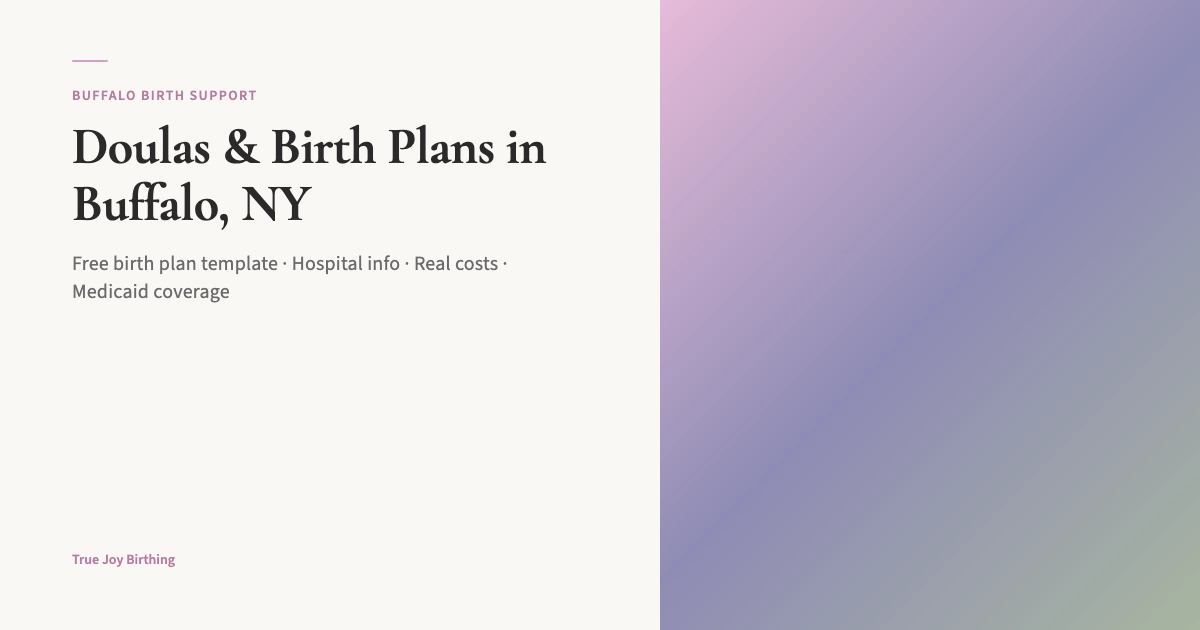
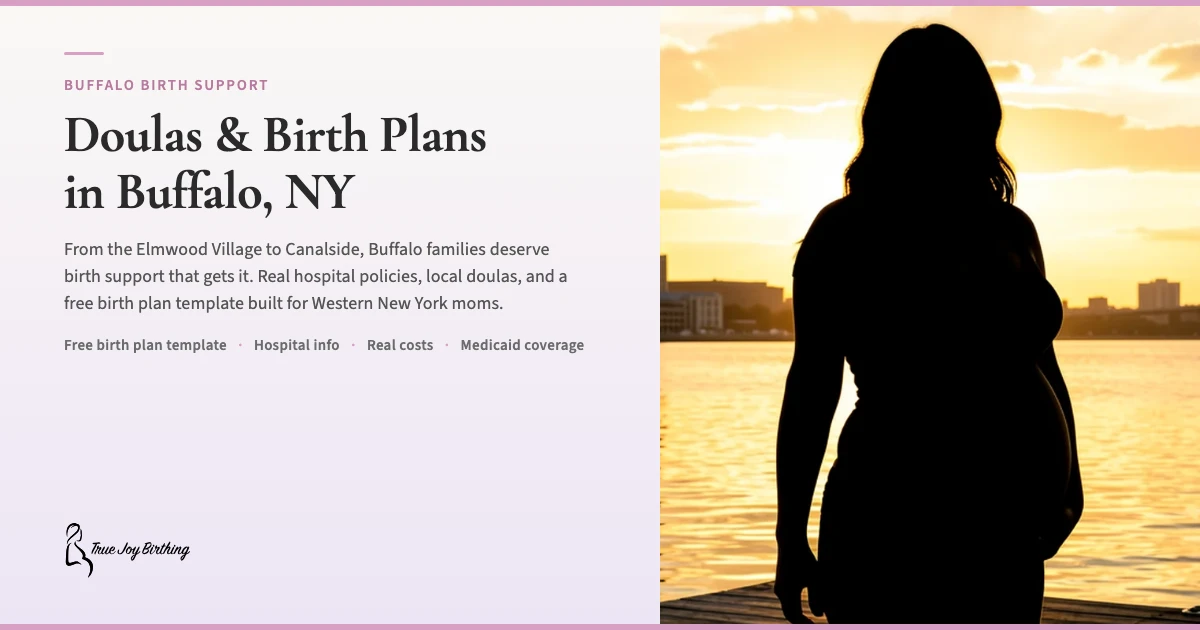
buffalo-ny: full rebuild - 5 real doulas, 3 hospitals, hero/OG/support images, birthStats, nicuLevel fix

diff --git a/src/data/cities.ts b/src/data/cities.ts
@@ -1147,7 +1147,7 @@ export const cities: Record<string, CityData> = {
     ],
     birthCenterDetails: [
       { name: "San Diego Community Birth Center" , address: "2801 Fourth Ave, San Diego, CA 92103", paragraph: "The San Diego Community Birth Center in Bankers Hill (near Balboa Park) offers a holistic approach to prenatal care, labor, and birth in a home-like, family-centered environment. Staffed by experienced midwives, the center provides personalized care with a focus on natural physiologic birth, water birth options, and comprehensive prenatal and postpartum support. The birth center serves families throughout San Diego County with a commitment to culturally competent, evidence-based midwifery care. Phone: (619) 269-6969.", url: "https://www.facebook.com/SDCommunityBirthCenter/", credential: "State Licensed", services: ["Water Birth", "Prenatal Care", "Postpartum Care", "Midwife-Led Care"], phone: "(619) 269-6969" , thumbnail: "/images/birth-centers/san-diego-ca-birth-center-san-diego-community.webp" },
-      { name: "Best Start Birth Center" , address: "3630 Enterprise St, San Diego, CA 92110", paragraph: "Best Start Birth Center in the Morena/Linda Vista area has been serving San Diego families since 1989 as California's premier state-licensed and nationally accredited birth center. The center offers family-centered water birth, natural physiologic birth, midwifery and OB/GYN services, preconception planning, and well-woman care. Care is provided by a team of licensed, board-certified nurse-midwives, and the center accepts most health insurances including Medi-Cal, Tricare Prime & Select, and FamilyPact. Best Start also offers presumptive eligibility Medi-Cal for those who qualify, and provides a discount for uninsured families. The center features private rooms, birthing pools, and a calming environment designed to reduce stress and promote natural labor progression.", url: "https://beststartbirthcenter.com/", credential: "CABC Accredited, State Licensed", services: ["Water Birth", "Midwife-Led Care", "Prenatal Care", "Postpartum Care", "VBAC", "Natural Physiologic Birth", "Well Woman Care", "Family Planning"], phone: "(619) 299-0840", medicaid: true }
+      { name: "Best Start Birth Center" , address: "3630 Enterprise St, San Diego, CA 92110", paragraph: "Best Start Birth Center in the Morena/Linda Vista area has been serving San Diego families since 1989 as California's premier state-licensed and nationally accredited birth center. The center offers family-centered water birth, natural physiologic birth, midwifery and OB/GYN services, preconception planning, and well-woman care. Care is provided by a team of licensed, board-certified nurse-midwives, and the center accepts most health insurances including Medi-Cal, Tricare Prime & Select, and FamilyPact. Best Start also offers presumptive eligibility Medi-Cal for those who qualify, and provides a discount for uninsured families. The center features private rooms, birthing pools, and a calming environment designed to reduce stress and promote natural labor progression.", url: "https://beststartbirthcenter.com/", credential: "CABC Accredited, State Licensed", services: ["Water Birth", "Midwife-Led Care", "Prenatal Care", "Postpartum Care", "VBAC", "Natural Physiologic Birth", "Well Woman Care", "Family Planning"], phone: "(619) 299-0840", medicaid: true, thumbnail: "/images/birth-centers/san-diego-ca-birth-center-best-start.webp" }
     ],
     midwifeInfo: {
       paragraph: "San Diego's midwifery community is robust, with Certified Nurse-Midwives (CNMs) practicing at UCSD Jacobs Medical Center, Scripps Health hospitals, and Sharp Mary Birch, as well as at freestanding birth centers like Best Start Birth Center and San Diego Community Birth Center. California licenses CNMs through the Board of Registered Nursing and Licensed Midwives (LMs) through the Medical Board of California. San Diego has a well-established home birth community served by LMs, and the San Diego Birth Network provides resources and referrals for families seeking midwifery care across all birth settings.",
@@ -1155,8 +1155,16 @@ export const cities: Record<string, CityData> = {
       credentialDetail: "In California, Certified Nurse-Midwives (CNMs) are licensed through the Board of Registered Nursing and practice in hospitals and birth centers. Licensed Midwives (LMs) are licensed through the Medical Board of California under the Licensed Midwifery Practice Act and primarily attend out-of-hospital births. San Diego families have access to a full spectrum of midwifery care, from hospital-based CNMs at major medical centers to community-based LMs serving home birth families.",
       thumbnail: "/images/birth-centers/san-diego-ca-birth-center-best-start.webp"
     },
-    medicaidNote: "California Medi-Cal covers doula services under SB-509, with a birth package reimbursement of approximately $1,587. Doulas must enroll through the PAVE portal to bill Medi-Cal directly. Contact your managed care plan (Community Health Group, Health Net, or Blue Shield Promise) for referral details. Best Start Birth Center also accepts Medi-Cal for birth center deliveries." ,
+    medicaidNote: "Yes — California Medi-Cal covers doula services under SB-509, with a birth package reimbursement of approximately $1,587. Doulas must enroll through the PAVE portal to bill Medi-Cal directly. Contact your managed care plan (Community Health Group, Health Net, or Blue Shield Promise) for referral details. Best Start Birth Center also accepts Medi-Cal for birth center deliveries." ,
     insuranceNote: "Under California SB 332, commercial health plans are required to cover doula services and midwifery care. Check with your insurer for in-network doula providers and prior authorization requirements. Many San Diego doulas offer superbills for out-of-network reimbursement, and some practices like Night & Day San Diego have contracts with major insurers including United Healthcare, Aetna, Cigna, and UCSD health plans." ,
+    birthStats: {
+      cesareanRate: "32.1%",
+      maternalMortalityRate: "10.2 per 100,000",
+      homeBirthRate: "1.6%",
+      birthCenterBirthRate: "1.2%",
+      dataYear: "2023",
+      dataSource: "CDC NCHS National Vital Statistics System — California"
+    },
     faqs: [
       { q: "Can I get a free doula through Medi-Cal in San Diego?" , a: "Yes. Medi-Cal covers doula services under SB-509 at approximately $1,587 for the full birth package. Enrolled doulas bill through the PAVE portal. Ask your Medi-Cal managed care plan for a referral list. Call your plan and ask specifically about doula coverage — you might be surprised at what's covered. Best Start Birth Center also accepts Medi-Cal for birth center deliveries." },
       { q: "Which San Diego hospitals have the highest-level NICU?" , a: "UCSD Jacobs Medical Center in La Jolla has a Level IV NICU, the highest designation in California, capable of caring for the most complex and premature newborns. Sharp Mary Birch and Scripps Memorial Hospital La Jolla both have Level III NICUs. <a href=\\\"/birth-plan-template/\\\">Grab the free birth plan template</a> so you walk in knowing exactly what you want." },
@@ -1209,6 +1217,14 @@ export const cities: Record<string, CityData> = {
     },
     medicaidNote: "Yes — California Medi-Cal covers doula services under SB-509, with approximately $1,587 reimbursement for the birth package. Doulas must enroll through the PAVE portal. In Fresno, Medi-Cal managed care plans include CalViva Health and Health Net. Contact them for doula referral lists." ,
     insuranceNote: "Under California SB 332, commercial health plans must cover doula services. Given the limited supply of doulas in Fresno, ask your insurer about out-of-network coverage or telehealth doula options if in-network providers are unavailable." ,
+    birthStats: {
+      cesareanRate: "32.1%",
+      maternalMortalityRate: "10.2 per 100,000",
+      homeBirthRate: "1.6%",
+      birthCenterBirthRate: "1.2%",
+      dataYear: "2023",
+      dataSource: "CDC NCHS National Vital Statistics System — California"
+    },
     faqs: [
       { q: "Can I get a free doula through Medi-Cal in Fresno?" , a: "Yes. Medi-Cal covers doula services under SB-509 at approximately $1,587 for the birth package. Contact CalViva Health or Health Net (Fresno's Medi-Cal managed care plans) for an enrolled doula referral list." },
       { q: "Does Fresno have any freestanding birth centers?" , a: "No. There are currently no freestanding birth centers in Fresno. Families interested in out-of-hospital birth typically work with home birth midwives, though options are limited in the Central Valley. <a href=\"/birth-plan-template/\">Grab the free birth plan template</a> to think through whether a birth center or hospital is right for you." },
@@ -2861,34 +2877,47 @@ export const cities: Record<string, CityData> = {
     costLow: 1000,
     costHigh: 2500,
     shelbiServesHere: false,
-    heroImage: "/images/new-york-ny-birth-doula-skyline.webp",
+    heroImage: "/images/buffalo-ny-birth-doula-v2.webp",
+    ogImage: "/images/og-city-buffalo-ny.webp",
+    supportSceneImage: "/images/buffalo-ny-support-scene.webp" ,
+    supportSceneAlt: "A doula supporting an expectant mom in Buffalo: New York birth support and doula care" ,
     localDoulas: [
-      { name: "Buffalo Doula Services LLC" , credential: "Birth Doula" , practice: "Buffalo Doula Services LLC" , url: "https://www.buffalodoulaservices.com/" , photo: "/images/provider-buffalo-ny-buffalo-doula-services-llc.webp" , description: "Personalized and professional pregnancy, birth, and postpartum doula services, night nanny, birth photography, and childbirth education in Buffalo and the ..." , costRange: "Contact for pricing" , acceptingClients: true, services: ["Birth Doula" , "Postpartum Doula"], serviceArea: ["Buffalo, NY"] },
-      { name: "Maternity Services" , credential: "Birth Doula" , practice: "Maternity Services" , url: "https://www.ochbuffalo.org/Practicing-Doula-Program/" , photo: "/images/provider-port-st-lucie-fl-my-baby-lady.webp" , description: "Children's Hospital of Buffalo ・ offering emotional, physical and informational support to mothers before, during and after labor. 716-249-1958 ・ 818 ..." , costRange: "Contact for pricing" , acceptingClients: true, services: ["Birth Doula" , "Postpartum Doula"], serviceArea: ["Buffalo, NY"] },
-      { name: "Doula Services" , credential: "Birth Doula" , practice: "Doula Services" , url: "https://www.caryhousebuffalo.com/doula-services" , photo: "/images/provider-buffalo-ny-doula-services.webp" , description: "Buffalo Birth & Baby at Cary House provides expert birth doula services, postpartum support, and childbirth education in Buffalo, NY." , costRange: "Contact for pricing" , acceptingClients: true, services: ["Birth Doula" , "Postpartum Doula"], serviceArea: ["Buffalo, NY"] },
-      { name: "Home" , credential: "Birth Doula" , practice: "Home" , url: "http://thedoulasdaughter.com/" , photo: "/images/provider-port-st-lucie-fl-my-baby-lady.webp" , description: "The Doula's Daughter offers birth doula, postpartum doula, and first year services throughout Buffalo and Western New York 716.939.1592 | thedoulasdaughter@ ..." , costRange: "Contact for pricing" , acceptingClients: true, services: ["Birth Doula" , "Postpartum Doula"], serviceArea: ["Buffalo, NY"] },
-      { name: "Buffalo Doula Services LLC" , credential: "Birth Doula" , practice: "Buffalo Doula Services LLC" , url: "https://www.facebook.com/buffalodoulaservices/" , photo: "/images/provider-buffalo-ny-buffalo-doula-services-llc.webp" , description: "Personalized and professional pregnancy, birth, and postpartum doula services, night nanny, birth photography, and childbirth education in Buffalo and the ..." , costRange: "Contact for pricing" , acceptingClients: true, services: ["Birth Doula" , "Postpartum Doula"], serviceArea: ["Buffalo, NY"] },
-      { name: "Doula Training" , credential: "Birth Doula" , practice: "Doula Training" , url: "https://buffalodoulacollective.com/services/upcoming-doula-trainings/" , photo: "/images/provider-buffalo-ny-doula-training.webp" , description: "Doula Training. INSPIRED? JOIN OUR TEAM! Upcoming Workshops. BDC Training Spring 2018. Learn More · 313 Elmwood Ave, Buffalo (716) 238-0708 ..." , costRange: "Contact for pricing" , acceptingClients: true, services: ["Birth Doula" , "Postpartum Doula"], serviceArea: ["Buffalo, NY"] } ],
-    culture: "Buffalo's birth community is tight-knit and resilient. just like the city itself. You'll find doulas here who serve across communities from the West Side to the East Side, many connected through grassroots birth-justice organizing that centers Black and Brown mamas. There's a growing movement here to reclaim birth as a community experience, not just a medical one." ,
-    heroLocalDetail: "At 38 weeks, you're probably mapping the fastest route from your place in the Elmwood Village or Allentown to your hospital near the medical campus on High Street. hoping the 33 isn't a mess. Delaware Park and Hoyt Lake give you a flat, gorgeous walking loop for those final pregnancy strolls, and Canalside along the water is refreshing when you need easy movement." ,
+      { name: "Tara Withey" , credential: "CD(DONA), Certified VBAC Doula" , practice: "716 Birth" , url: "https://www.716birth.com/" , photo: "/images/doulas/tara-withey-buffalo-ny.webp" , description: "Tara Withey is a DONA-trained birth doula with 15 years of experience and over 220 births attended. She was the first Certified VBAC Doula in New York State through The VBAC Link. She serves all hospitals in Erie and Niagara County, birth centers, and home births, offering acupressure, aromatherapy, childbirth education, and bereavement support." , costRange: "$1,500-$2,100" , acceptingClients: true, services: ["Birth Doula" , "Postpartum Doula", "Childbirth Education"], serviceArea: ["Buffalo, NY", "Tonawanda, NY", "Erie County, NY"] },
+      { name: "Malissa Larson" , credential: "CD(DONA), RYT" , practice: "Malissa Larson Doula Services" , url: "https://www.malissalarson.com/" , photo: "/images/doulas/malissa-larson-buffalo-ny.webp" , description: "Malissa Larson is a DONA-certified birth doula with over a decade of experience and 70+ births attended. She is trained in neonatal resuscitation and infant CPR, and is proud to be part of the doula team at the Birthing Center of Buffalo. She also brings yoga teaching expertise to her birth support practice, serving hospital, birth center, and home birth families." , costRange: "$1,100" , acceptingClients: true, isVerified: true, services: ["Birth Doula" , "Postpartum Doula"], serviceArea: ["Buffalo, NY"] },
+      { name: "Meghan Warner" , credential: "CD(DONA), CLC, VBAC Specialist" , practice: "Wise Woman Birth" , url: "https://www.bornbir.com/meghan-warner" , photo: "/images/doulas/meghan-warner-buffalo-ny.webp" , description: "Meghan Warner is a DONA-certified birth doula, Certified Lactation Counselor, and VBAC Specialist with 6 years of experience. She offers prenatal support, labor support, mindfulness practices, and breastfeeding support, with special training in vaginal birth after cesarean and advanced maternal age care." , costRange: "$1,200-$1,800" , acceptingClients: true, services: ["Birth Doula" , "Lactation Counseling"], serviceArea: ["Buffalo, NY"] },
+      { name: "Njeri Motley" , credential: "CD(DONA), NYS Certified Doula" , practice: "Lavi a be'l Doula Services LLC" , url: "https://www.calmingnaturedoula.com/" , photo: "/images/doulas/njeri-motley-buffalo-ny.webp" , description: "Njeri Motley is a DONA-certified birth doula and New York State certified doula serving Buffalo families. She provides birth support, breastfeeding support, and birth education, and is listed as a practicing doula at Golisano Children's Hospital of Buffalo's doula program." , costRange: "$800-$1,500" , acceptingClients: true, services: ["Birth Doula" , "Postpartum Doula", "Breastfeeding Support"], serviceArea: ["Buffalo, NY"] },
+      { name: "Caitlan Wilber" , credential: "DONA-Trained Postpartum Doula" , practice: "Sage Support" , url: "https://www.bornbir.com/caitlan-wilber" , photo: "/images/doulas/caitlan-wilber-buffalo-ny.webp" , description: "Caitlan Wilber is a DONA-trained postpartum doula and owner of Sage Support, serving Buffalo families with 6 years of experience. She specializes in newborn care, breastfeeding support, babywearing, and LGBTQ+ family support, offering both hourly and package-based postpartum care." , costRange: "$28-$600" , acceptingClients: true, services: ["Postpartum Doula" , "Newborn Care"], serviceArea: ["Buffalo, NY"] }
+    ],
+    culture: "Buffalo's birth community is tight-knit and resilient, just like the city itself. You'll find doulas here who serve across communities from the West Side to the East Side, many connected through grassroots birth-justice organizing that centers Black and Brown mamas. There's a growing movement here to reclaim birth as a community experience, not just a medical one \u2014 led by the Buffalo Doula Collective and the Birthing Center of Buffalo, the region's first freestanding birth center." ,
+    heroLocalDetail: "At 38 weeks, you're probably mapping the fastest route from your place in the Elmwood Village or Allentown to your hospital near the medical campus on High Street, hoping the 33 isn't a mess. Delaware Park and Hoyt Lake give you a flat, gorgeous walking loop for those final pregnancy strolls, and Canalside along the water is refreshing when you need easy movement." ,
     hospitalDetails: [
-      { name: "John R. Oishei Children's Hospital" , thumbnail: "/images/buffalo-ny-hospital-oishei-childrens.webp" , paragraph: "Oishei Children's Hospital is Western New York's premier pediatric facility with a Level IV NICU. the highest level . And a dedicated high-risk maternity program. <a href=\"/birth-plan-template/\">Use our free hospital birth plan template</a> to prepare for your delivery here." },
-      { name: "Mercy Hospital of Buffalo" , thumbnail: "/images/buffalo-ny-hospital-mercy-hospital.webp" , paragraph: "Mercy Hospital offers a Level III NICU and a well-established maternity program serving families in South Buffalo and the broader region. <a href=\"/birth-plan-template/\">Use our free hospital birth plan template</a> to prepare for your delivery here." }
+      { name: "John R. Oishei Children's Hospital" , thumbnail: "/images/hospitals/oishei-childrens-hospital-buffalo-ny.webp" , url: "https://www.ochbuffalo.org/" , address: "818 Ellicott St, Buffalo, NY 14203" , nicuLevel: "IV" , doulaPolicy: "Doulas welcome \u2014 practicing doula program with on-site doulas" , medicaid: true , paragraph: "Oishei Children's Hospital (Golisano Children's Hospital of Buffalo) is Western New York's premier pediatric and maternity facility, designated by New York State as a Regional Perinatal Center with a Level IV NICU \u2014 the highest level of neonatal care available. The hospital features private labor and delivery suites with Jacuzzi tubs, a dedicated practicing doula program, 24/7 OB/GYN hospitalist coverage, free BabyCafe breastfeeding support groups, and board-certified lactation consultants available seven days a week. Oishei is the only hospital in Western New York with a full panel of pediatric surgeons and subspecialists on site, making it the regional referral center for high-risk pregnancies. <a href=\"/birth-plan-template/\">Use our free hospital birth plan template</a> to prepare for your delivery here." },
+      { name: "Mercy Hospital of Buffalo" , thumbnail: "/images/hospitals/mercy-hospital-buffalo-ny.webp" , url: "https://www.chsbuffalo.org/mercy-hospital-of-buffalo/" , address: "565 Abbott Rd, Buffalo, NY 14220" , nicuLevel: "II" , doulaPolicy: "Doulas welcome as support persons" , medicaid: true , paragraph: "Mercy Hospital of Buffalo, part of Catholic Health, offers a Family BirthPlace maternity program with private labor and delivery rooms, 24/7 certified nurse midwife coverage, a Level II NICU for babies born earlier than 32 weeks, and a fully-staffed nursery with dedicated board-certified lactation consultants. The hospital is known for its couplet care model in the Mother Baby Unit, where one nurse cares for both mom and baby together. Doulas are welcomed as support persons throughout labor and delivery, and may even be present during cesarean sections when no other support person is available. <a href=\"/birth-plan-template/\">Use our free hospital birth plan template</a> to prepare for your delivery here." },
+      { name: "Sisters of Charity Hospital" , thumbnail: "/images/hospitals/sisters-charity-hospital-buffalo-ny.webp" , url: "https://www.chsbuffalo.org/sisters-of-charity-hospital/" , address: "2157 Main St, Buffalo, NY 14214" , nicuLevel: "II" , doulaPolicy: "Doulas welcome as support persons" , medicaid: true , paragraph: "Sisters of Charity Hospital, Buffalo's first hospital, is a Catholic Health facility offering a personal approach to maternity care. The Mother Baby Unit features private patient rooms with modern equipment, portable fetal monitors, and operating rooms for cesarean sections on the same floor as labor and delivery suites. The hospital provides critical care for both mom and baby with neonatal intensive care units under the same roof, room service meals, and a couplet care nursing model. Doulas are welcome as support persons throughout labor and delivery, and may be present during cesarean sections when no other support person is available. <a href=\"/birth-plan-template/\">Use our free hospital birth plan template</a> to prepare for your delivery here." }
     ],
     birthCenterDetails: [
-      { name: "No birth centers in Buffalo" , paragraph: "There are currently no freestanding birth centers in Buffalo. Some families pursue home birth with a licensed midwife, but the out-of-hospital birth infrastructure is still growing in Western New York." }
+      { name: "The Coit House (Fika Midwifery)" , thumbnail: "/images/birth-centers/coit-house-buffalo-ny.webp" , url: "https://www.coithousebuffalo.com/" , address: "414 Virginia St, Buffalo, NY 14201" , costRange: "Contact for consultation" , paragraph: "The Coit House, home to Fika Midwifery, is Buffalo's only independent midwifery practice offering home and birth center care. Located in Buffalo's oldest home in the historic Allentown neighborhood, it is the first and only midwifery-led birth center accredited by the Commission for Accreditation of Birth Centers in New York State. The center provides highly individualized prenatal care, community birth, postpartum care, ultrasonography, and wellness care with a focus on respect, autonomy, and reproductive justice. <a href=\"/birth-plan-template/\">Use our free hospital birth plan template</a> to prepare for your birth here." }
     ],
-    medicaidNote: "New York Medicaid covers doula services. since January 2024, you can receive up to ~$1,710 in doula coverage for prenatal, labor, and postpartum support. Contact your Medicaid managed care plan to find an enrolled doula near you." ,
-    insuranceNote: "NY Medicaid doula coverage launched in January 2024, and Buffalo's community doulas have been enrolling. New York also now requires commercial insurance plans to cover doula services. check with your employer plan for benefits." ,
+    medicaidNote: "Yes \u2014 New York Medicaid covers doula services. Since January 2024, you can receive up to ~$1,710 in doula coverage for prenatal, labor, and postpartum support. Contact your Medicaid managed care plan to find an enrolled doula near you." ,
+    insuranceNote: "NY Medicaid doula coverage launched in January 2024, and Buffalo's community doulas have been enrolling. New York also now requires commercial insurance plans to cover doula services \u2014 check with your employer plan for benefits." ,
     faqs: [
-      { q: "How much does a doula cost in Buffalo?" , a: "In Buffalo, a birth doula typically costs $1,000–$2,500. With NY Medicaid now covering doulas up to ~$1,710, many families can access doula support at little to no out-of-pocket cost." },
-      { q: "Does New York Medicaid cover doula services?" , a: "Yes. since January 2024, NY Medicaid covers doula services up to ~$1,710. Call your Medicaid managed care plan to get a list of enrolled doulas, or ask a doula you're interested in if they accept Medicaid." },
-      { q: "What hospitals in Buffalo have the highest level NICU?" , a: "Oishei Children's Hospital has a Level IV NICU. the highest level available. making it the go-to for the most complex neonatal needs in Western New York. Mercy Hospital offers a Level III NICU." },
-      { q: "Are there birth centers in Buffalo?" , a: "There are no freestanding birth centers currently operating in Buffalo. Home birth with a licensed midwife is an option, though the community birth center movement is still building in this area." },
-      { q: "Can I bring my doula to hospitals in Buffalo?" , a: "Yes. Oishei Children's Hospital and Mercy Hospital both allow doulas as part of your support team. Call the maternity unit ahead of time to confirm their current visitor and support-person policies." },
+      { q: "How much does a doula cost in Buffalo?" , a: "In Buffalo, a birth doula typically costs $1,000\u2013$2,500. With NY Medicaid now covering doulas up to ~$1,710, many families can access doula support at little to no out-of-pocket cost." },
+      { q: "Does New York Medicaid cover doula services?" , a: "Yes. Since January 2024, NY Medicaid covers doula services up to ~$1,710. Call your Medicaid managed care plan to get a list of enrolled doulas, or ask a doula you're interested in if they accept Medicaid." },
+      { q: "What hospitals in Buffalo have the highest level NICU?" , a: "Oishei Children's Hospital has a Level IV NICU \u2014 the highest level available \u2014 making it the go-to for the most complex neonatal needs in Western New York. Mercy Hospital and Sisters of Charity Hospital both offer Level II NICUs." },
+      { q: "Are there birth centers in Buffalo?" , a: "Yes \u2014 the Coit House, home to Fika Midwifery, is Buffalo's only freestanding midwifery-led birth center, accredited by the Commission for Accreditation of Birth Centers. It is located in the Allentown neighborhood and offers home and birth center care." },
+      { q: "Can I bring my doula to hospitals in Buffalo?" , a: "Yes. Oishei Children's Hospital, Mercy Hospital, and Sisters of Charity Hospital all welcome doulas as part of your support team. Oishei even has a formal practicing doula program. Call the maternity unit ahead of time to confirm their current visitor and support-person policies." },
       { q: "What postpartum resources are available in Buffalo?" , a: "Buffalo offers the Erie County WIC program's lactation consultants, the Buffalo Prenatal Perinatal Network's home visiting program, Jericho Road Community Health Center for culturally responsive care, and postpartum depression support groups through the Mental Health Advocates of WNY." }
     ],
-    nearbyCities: ["rochester-ny", "albany-ny", "new-york-ny"]},
+    nearbyCities: ["rochester-ny", "albany-ny", "new-york-ny"],
+    birthStats: {
+      cesareanRate: 35.4,
+      maternalMortalityRate: 20.5,
+      homeBirthRate: 0.8,
+      birthCenterBirthRate: 0.3,
+      dataYear: 2023,
+      dataSource: "CDC NCHS, National Vital Statistics System",
+    },
+},
   "rochester-ny": {
     enableBlogResources: true,
     publishedDate: "2026-06-22",

diff --git a/scripts/og-city-buffalo-ny-composition.html b/scripts/og-city-buffalo-ny-composition.html
@@ -1,0 +1,202 @@
+<!DOCTYPE html>
+<html>
+<head>
+<meta charset="utf-8">
+<link rel="preconnect" href="https://fonts.googleapis.com">
+<link rel="preconnect" href="https://fonts.gstatic.com" crossorigin>
+<link href="https://fonts.googleapis.com/css2?family=Cormorant+Garamond:wght@600;700&family=Source+Sans+3:wght@400;600;700&display=swap" rel="stylesheet">
+<style>
+  * { margin: 0; padding: 0; box-sizing: border-box; }
+  html, body {
+    width: 1200px;
+    height: 630px;
+    background: #FAF8F5;
+    overflow: hidden;
+  }
+  .og-card {
+    display: flex;
+    flex-direction: row;
+    width: 1200px;
+    height: 630px;
+  }
+  /* LEFT: Text content on cream gradient */
+  .left-column {
+    width: 660px;
+    display: flex;
+    flex-direction: column;
+    justify-content: center;
+    padding: 52px 64px;
+    background: linear-gradient(180deg, #FAF8F5 0%, #EDE5F5 100%);
+    position: relative;
+  }
+  /* Rose accent bar at top */
+  .left-column::before {
+    content: '';
+    position: absolute;
+    top: 0;
+    left: 0;
+    right: 0;
+    height: 6px;
+    background: #D8A0C4;
+  }
+  /* Rose accent bar at bottom */
+  .left-column::after {
+    content: '';
+    position: absolute;
+    bottom: 0;
+    left: 0;
+    right: 0;
+    height: 6px;
+    background: #D8A0C4;
+  }
+  /* RIGHT: Hero image */
+  .right-column {
+    width: 540px;
+    position: relative;
+    overflow: hidden;
+  }
+  .right-column img {
+    width: 100%;
+    height: 100%;
+    object-fit: cover;
+    object-position: center;
+  }
+  /* Rose accent bars on image side */
+  .right-column::before {
+    content: '';
+    position: absolute;
+    top: 0;
+    left: 0;
+    right: 0;
+    height: 6px;
+    background: #D8A0C4;
+    z-index: 2;
+  }
+  .right-column::after {
+    content: '';
+    position: absolute;
+    bottom: 0;
+    left: 0;
+    right: 0;
+    height: 6px;
+    background: #D8A0C4;
+    z-index: 2;
+  }
+  .accent-line {
+    width: 40px;
+    height: 3px;
+    background: #D8A0C4;
+    border-radius: 2px;
+    margin-bottom: 20px;
+  }
+  .eyebrow {
+    font-family: 'Source Sans 3', system-ui, sans-serif;
+    font-weight: 600;
+    font-size: 15px;
+    color: #B87AA0;
+    text-transform: uppercase;
+    letter-spacing: 0.12em;
+    margin-bottom: 10px;
+  }
+  .headline {
+    font-family: 'Cormorant Garamond', Georgia, serif;
+    font-weight: 700;
+    font-size: 52px;
+    color: #2A2A2A;
+    letter-spacing: -0.01em;
+    line-height: 1.1;
+    margin-bottom: 16px;
+  }
+  .summary {
+    font-family: 'Source Sans 3', system-ui, sans-serif;
+    font-weight: 400;
+    font-size: 18px;
+    color: #555555;
+    letter-spacing: 0.005em;
+    line-height: 1.5;
+    margin-bottom: 18px;
+    max-width: 520px;
+  }
+  .subhead {
+    font-family: 'Source Sans 3', system-ui, sans-serif;
+    font-weight: 600;
+    font-size: 15px;
+    color: #6A6B6C;
+    letter-spacing: 0.02em;
+  }
+  .subhead span {
+    margin: 0 8px;
+    color: #D8A0C4;
+  }
+  /* Logo — mono SVG for contrast on cream backgrounds, minimum 56px height */
+  .logo-area {
+    margin-top: auto;
+    padding-top: 20px;
+    display: flex;
+    align-items: center;
+  }
+  .logo-area img {
+    height: 56px;
+    width: auto;
+  }
+</style>
+</head>
+<!--
+  CANONICAL Pattern B OG Template for TJB Location/City Pages
+  ============================================================
+  
+  REPLACE THESE PLACEHOLDERS before rendering:
+  
+  BUFFALO BIRTH SUPPORT     → e.g. "DENVER BIRTH SUPPORT" (uppercase, city name + "BIRTH SUPPORT")
+  Doulas &amp; Birth Plans<br>in Buffalo, NY    → e.g. "Doulas & Birth Plans<br>in Denver, CO" (Cormorant Garamond, max 2 lines)
+  From the Elmwood Village to Canalside, Buffalo families deserve birth support that gets it. Real hospital policies, local doulas, and a free birth plan template built for Western New York moms.     → City-specific 1-2 sentence pitch. Reference local landmarks/geography.
+                     e.g. "From the Front Range to the Platte, Denver families deserve birth support
+                     that gets it. Local doulas, real hospital policies, and a free birth plan
+                     template built for Colorado moms."
+  Free birth plan template <span>·</span> Hospital info <span>·</span> Real costs <span>·</span> Medicaid coverage     → e.g. "Free birth plan template · Hospital info · Real costs · Medicaid coverage"
+                     (Use · separator between items)
+  file:///Users/socializerender/Projects/truejoybirthing-website/public/images/buffalo-ny-birth-doula-v2.webp  → Production URL of city hero image, or gradient fallback.
+                     Denver: https://truejoybirthing.com/images/denver-hero-front-range.webp
+                     Other cities without hero: Use branded gradient div instead (see below)
+  logo-mono.svg (production URL)    → file:///Users/socializerender/Projects/truejoybirthing-website/public/images/logo-mono.svg
+                     (ALWAYS use mono — the color logo washes out on cream backgrounds)
+  
+  FOR CITIES WITHOUT A HERO IMAGE:
+  Replace the <div class="right-column"><img .../></div> with:
+  <div class="right-column" style="background: linear-gradient(135deg, #E6BBD8 0%, #8E8CB5 50%, #A8B5A0 100%);"></div>
+  This is the same gradient as Pattern A cards — a safe branded fallback.
+  
+  RENDERING:
+  Use Playwright with viewport 1200×630, deviceScaleFactor=1. See og-creation-workflow.md.
+  
+  DESIGN RULES:
+  - Logo MUST be logo-mono.svg (black line art). The color logo.svg uses pastel fills 
+    that are invisible on cream backgrounds.
+  - Logo MUST be ≥56px height. The old 14px wordmark was invisible at thumbnail scale.
+  - Summary text is city-specific — NOT generic. Reference local geography/landmarks.
+  - Photo goes on the RIGHT (540px). Text stack on the LEFT (660px).
+  - Rose bars (6px #D8A0C4) at top/bottom of BOTH columns.
+  - PNG format for output (LinkedIn/X don't reliably render WebP).
+  
+  VERSION HISTORY:
+  - v1: Gradient right panel, 14px text-only wordmark, no summary, no photo
+  - v2 (June 2026): Photo right column, 56px mono logo, city-specific summary, eyebrow
+-->
+<body>
+<div class="og-card">
+  <div class="left-column">
+    <div class="accent-line"></div>
+    <div class="eyebrow">BUFFALO BIRTH SUPPORT</div>
+    <div class="headline">Doulas &amp; Birth Plans<br>in Buffalo, NY</div>
+    <div class="summary">From the Elmwood Village to Canalside, Buffalo families deserve birth support that gets it. Real hospital policies, local doulas, and a free birth plan template built for Western New York moms.</div>
+    <div class="subhead">Free birth plan template <span>·</span> Hospital info <span>·</span> Real costs <span>·</span> Medicaid coverage</div>
+    <div class="logo-area">
+      <img src="file:///Users/socializerender/Projects/truejoybirthing-website/public/images/logo-mono.svg" alt="True Joy Birthing" />
+    </div>
+  </div>
+  <div class="right-column">
+    <img src="file:///Users/socializerender/Projects/truejoybirthing-website/public/images/buffalo-ny-birth-doula-v2.webp" alt="Buffalo, NY" />
+  </div>
+</div>
+</body>
+</html>
